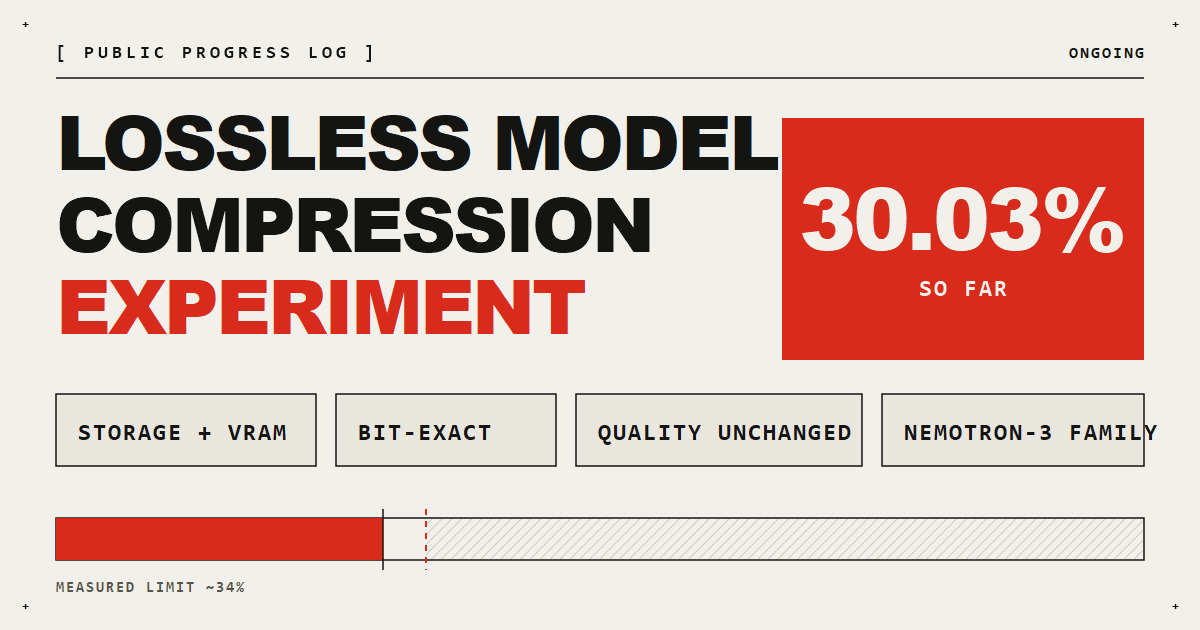
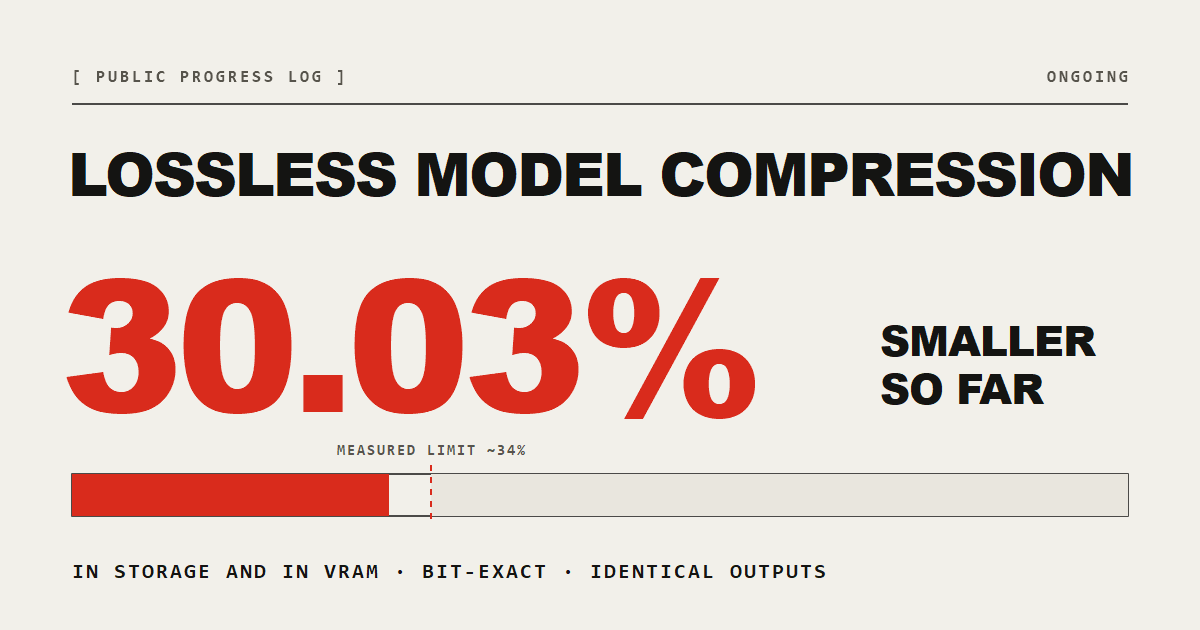
Simplify SEO card and meta tags
Claude-Session: https://claude.ai/code/session_01N3E1ntupchLayXwgCg7hMp

diff --git a/index.html b/index.html
@@ -3,23 +3,19 @@
 <head>
 <meta charset="utf-8" />
 <meta name="viewport" content="width=device-width, initial-scale=1" />
-<title>Model Weights, Losslessly Compressed</title>
-<meta name="description" content="Lossless model compression experiment: 30% compression so far, in storage and VRAM. Bit-exact model weights, same outputs, no quality tradeoff." />
+<title>Lossless Model Compression Experiment</title>
+<meta name="description" content="30% smaller so far, in storage and in VRAM. The weights reconstruct bit-for-bit, so the model computes exactly the same thing." />
 <link rel="canonical" href="https://brianbell-x.github.io/weight-compression/" />
 <meta property="og:type" content="website" />
-<meta property="og:site_name" content="Model Weights, Losslessly Compressed" />
 <meta property="og:url" content="https://brianbell-x.github.io/weight-compression/" />
-<meta property="og:title" content="Model Weights, Losslessly Compressed" />
-<meta property="og:description" content="Lossless model compression experiment: 30% compression so far, in storage and VRAM. Bit-exact model weights, same outputs, no quality tradeoff." />
-<meta property="og:image" content="https://brianbell-x.github.io/weight-compression/og.png?v=20260703" />
+<meta property="og:title" content="Lossless Model Compression Experiment" />
+<meta property="og:description" content="30% smaller so far, in storage and in VRAM. The weights reconstruct bit-for-bit, so the model computes exactly the same thing." />
+<meta property="og:image" content="https://brianbell-x.github.io/weight-compression/og.png?v=20260703b" />
 <meta property="og:image:width" content="1200" />
 <meta property="og:image:height" content="630" />
-<meta property="og:image:alt" content="Model Weights, Losslessly Compressed. Lossless model compression experiment: 30% compression so far, storage plus VRAM, bit-exact, quality unchanged." />
+<meta property="og:image:alt" content="Progress card: 30.03% smaller so far, gauge marked at a measured limit near 34%." />
 <meta name="twitter:card" content="summary_large_image" />
-<meta name="twitter:title" content="Model Weights, Losslessly Compressed" />
-<meta name="twitter:description" content="Lossless model compression experiment: 30% compression so far, in storage and VRAM. Bit-exact model weights, same outputs, no quality tradeoff." />
-<meta name="twitter:image" content="https://brianbell-x.github.io/weight-compression/og.png?v=20260703" />
-<meta name="twitter:image:alt" content="Model Weights, Losslessly Compressed. 30% compression so far, storage plus VRAM, bit-exact, quality unchanged." />
+<meta name="twitter:image" content="https://brianbell-x.github.io/weight-compression/og.png?v=20260703b" />
 <link rel="icon" href="data:,">
 <link rel="preconnect" href="https://fonts.googleapis.com">
 <link rel="preconnect" href="https://fonts.gstatic.com" crossorigin>